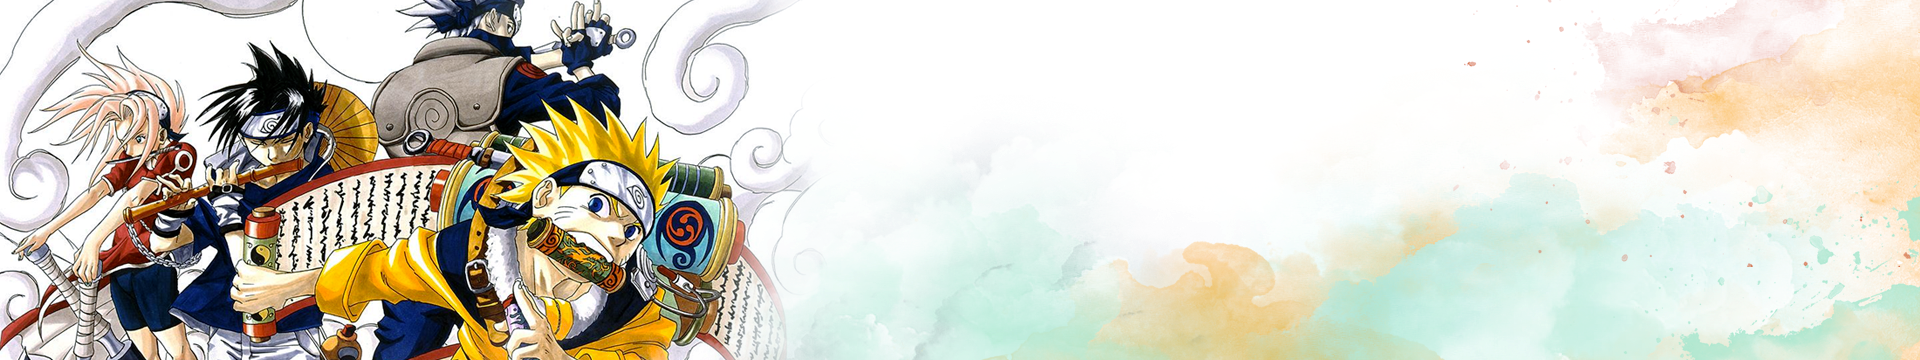
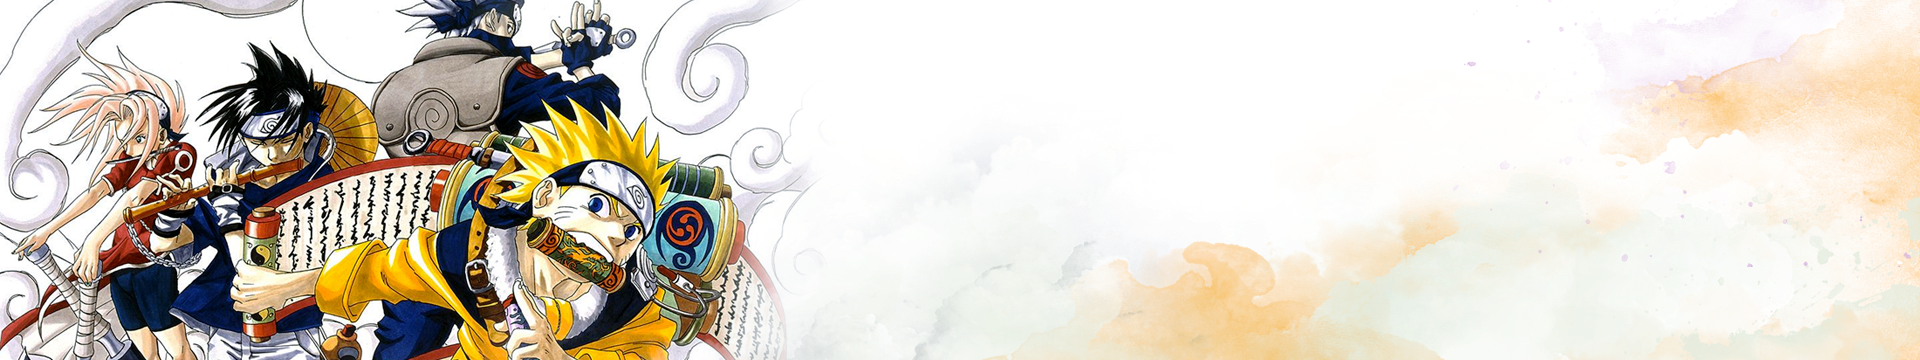
Header P&B
Ficou melhor em preto e branco

diff --git a/personal/modal-json-v3/css/style.css b/personal/modal-json-v3/css/style.css
@@ -23,7 +23,7 @@ p.note {
 	background-color: #ffffff;
 	background-position: left center;
 	background-size: cover;
-	background-image: url(../img/bg-header.png);
+	background-image: url(../img/bg-header-2.png);
 	background-repeat: no-repeat;
 }
 
